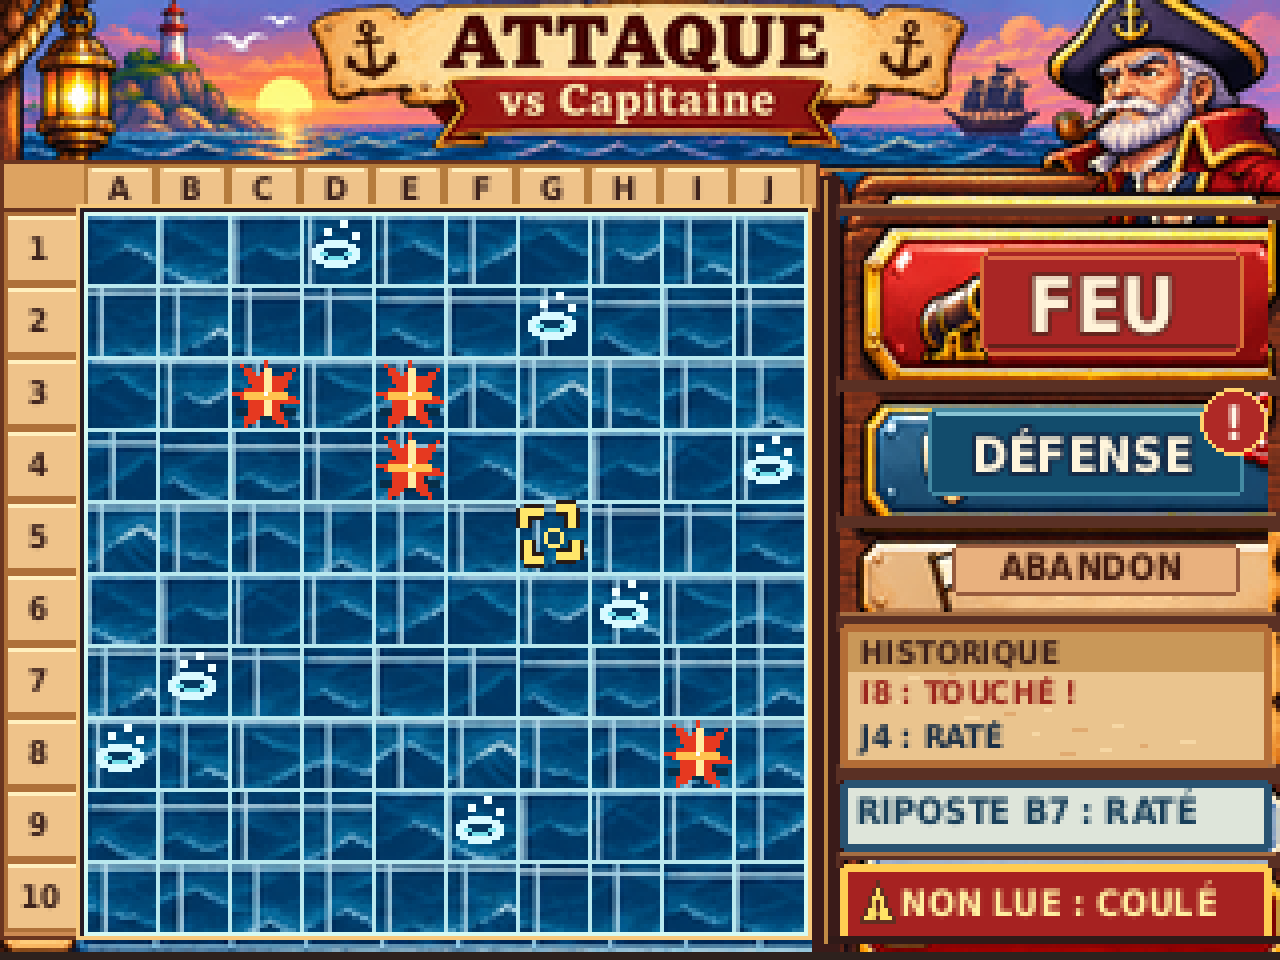
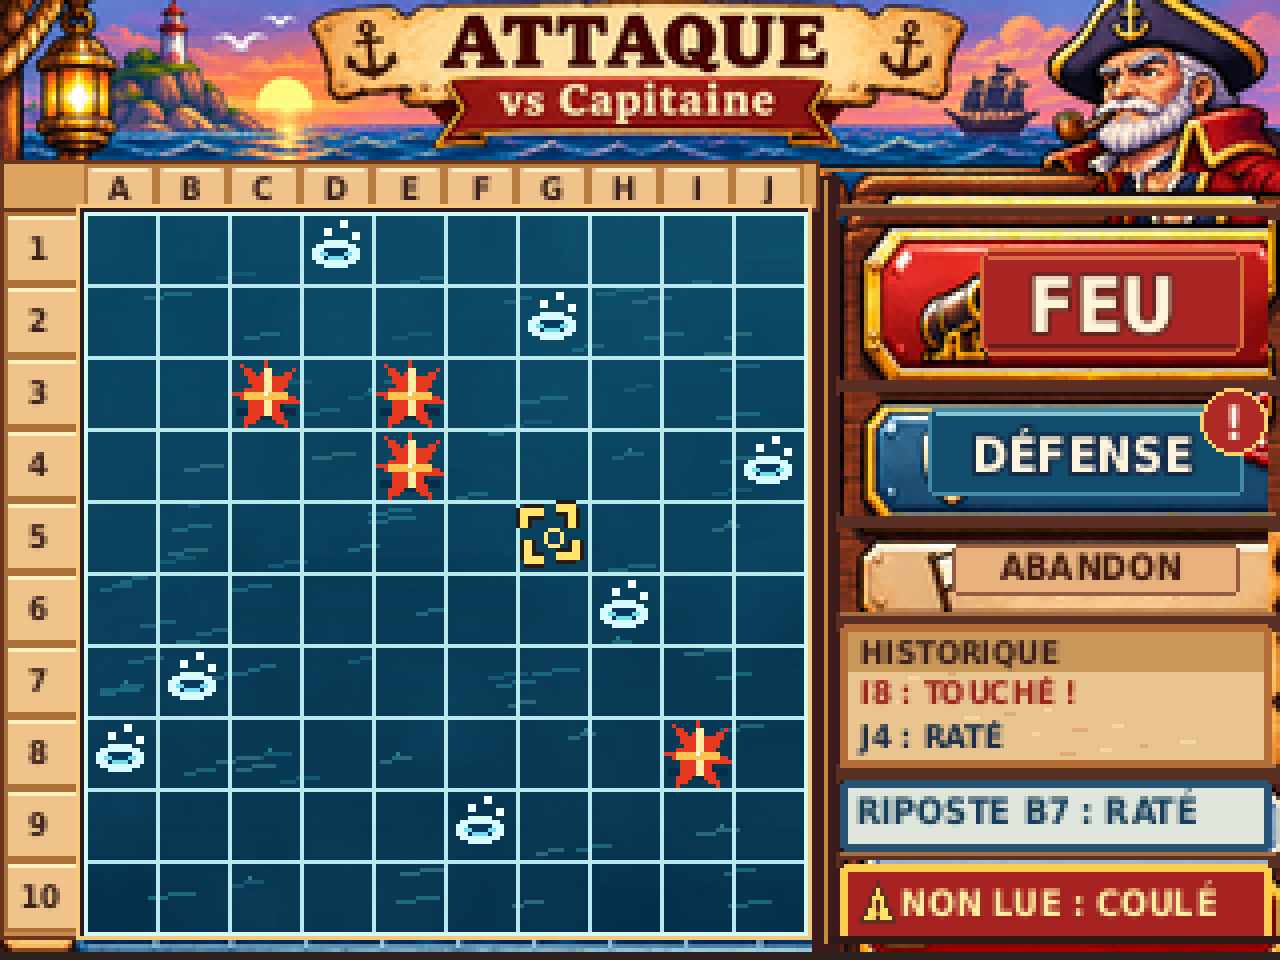
design(g04-r2): continuous ocean, unique grid and native before-after PC proofs (Refs #45)

Changed region(s): [[0.0625, 0.2188, 0.625, 0.9688]]

diff --git a/design/ecrans/attaque/build_g04_r2.py b/design/ecrans/attaque/build_g04_r2.py
@@ -66,30 +66,70 @@ for i in range(10):
 d.rectangle((19,51,202,234),fill='#623623',outline='#F7C97D',width=2)
 d.rectangle((20,52,201,233),fill='#102D42',outline='#271C25',width=1)
 
-# Reuse isolated clean water cells as native sea textures. Unlike a downscale
-# of the whole HD art, the native field contains no embedded phantom markers.
-x0,y0,x1,y1=154,248,830,900
-cw=(x1-x0)/10; ch=(y1-y0)/10
-orig_marked=[('A',8),('B',7),('D',1),('F',9),('G',2),('H',6),('J',4),('C',3),('E',3),('E',4),('I',8),('G',5)]
-marked={(ord(r)-65,c-1) for r,c in orig_marked}
-safe=[(rr,cc) for rr in range(10) for cc in range(10)
-      if all(max(abs(rr-mr),abs(cc-mc))>=2 for mr,mc in marked)]
-# Tiles with cleaner ocean and no baked symbols; 4px inset discards HD grid.
-for yrow in range(10):
-    for xcol in range(10):
-        rr,cc=safe[(xcol*29+yrow*17)%len(safe)]
-        box=(int(x0+cc*cw+5),int(y0+rr*ch+5),
-             int(x0+(cc+1)*cw-5),int(y0+(rr+1)*ch-5))
-        tex=ref.crop(box).resize((CELL,CELL),Image.Resampling.LANCZOS)
-        sea_tint=Image.new('RGB',(CELL,CELL),'#073C5E')
-        tex=Image.blend(tex,sea_tint,.14)
-        im.paste(tex,(GX+xcol*CELL,GY+yrow*CELL))
+# A single continuous, deterministic ocean artwork (G04-R2 grid readability correction).
+# The previous version used 100 independently cropped water tiles, generating
+# bright internal seams and phantom cell boundaries.  This replacement paints
+# a unified 180x180 ocean without tiles or any 18px-periodic operation.
+# The texture is deliberately SUBORDINATE to the 1px authoritative grid and
+# to game markers. Every swell is an isolated low-contrast motif, not a line.
+from random import Random
+RNG=Random(20261103)
+
+def make_continuous_ocean():
+    ocean=Image.new('RGB',(GRID,GRID))
+    px=ocean.load()
+    # Correlated colour variation at non-periodic scales. This is a continuous
+    # value field over the whole playable water, NOT a 10x10 tiled surface.
+    seeds=[(7,9,7),(17,14,5),(39,29,3)]
+    bands=[]
+    for wid,hei,amp in seeds:
+        field=Image.new('L',(wid,hei))
+        vals=field.load()
+        for yy in range(hei):
+            for xx in range(wid):
+                vals[xx,yy]=RNG.randint(85,170)
+        field=field.resize((GRID,GRID),Image.Resampling.BILINEAR)
+        bands.append((field.load(),amp))
+    for y in range(GRID):
+        depth=y/(GRID-1)
+        for x in range(GRID):
+            swell=sum(int((field[x,y]-128)*amp/64) for field,amp in bands)
+            # Teal-lit surface fading into a deeper midnight-blue ocean.
+            px[x,y]=(max(0,min(255,round(12-5*depth+swell*.38))),
+                     max(0,min(255,round(76-24*depth+swell))),
+                     max(0,min(255,round(103-23*depth+swell))))
+    dw=ImageDraw.Draw(ocean)
+    # Only short, broken crests: soft enough to sit BELOW actual grid lines.
+    # No continuous horizontal bars, no hard 18px tile edges or repeated stamps.
+    for idx in range(79):
+        x=RNG.randrange(3,GRID-18)
+        y=RNG.randrange(4,GRID-5)
+        span=RNG.randrange(4,10)
+        tone=RNG.choice(['#1B647B','#1B657A','#1D6980','#286A7C','#145A74'])
+        dw.line([(x,y),(x+span//2,y),(x+span//2+2,y-1),
+                 (x+span+2,y-1)],fill=tone,width=1)
+        # A few sunlit highpoints, NEVER pure white or grid-coloured.
+        if idx%6==0:
+            dw.point((x+span//2+2,y-2),fill='#2B7E8D')
+    # Mild smoothing prevents individual crests from becoming false straight
+    # cell borders; keep the authored 1px game grid as the sharpest signal.
+    return ocean
+
+sea_layer=make_continuous_ocean()
+sea_layer.save(ROOT/'g04_r2_mer_continue_180x180.png',optimize=True)
+im.paste(sea_layer,(GX,GY))
 d=ImageDraw.Draw(im)
+# The one-and-only gameplay grid, authored AFTER the ocean at exact coordinates.
+# Palette is reserved: the water generator NEVER emits these RGB values.
 for i in range(11):
     x=GX+i*CELL; y=GY+i*CELL
     d.line((x,GY,x,GY+GRID),fill='#B9E8EE',width=1)
     d.line((GX,y,GX+GRID,y),fill='#B9E8EE',width=1)
 d.rectangle((21,53,201,233),outline='#D6FAF2',width=1)
+# Proof-only view of the authoritative 11x11 lines on continuous sea before
+# marks are added; 181x181 includes both outer boundaries.
+im.crop((GX,GY,GX+GRID+1,GY+GRID+1)).save(
+    ROOT/'g04_r2_plateau_sans_impacts_181x181.png',optimize=True)
 
 # Mechanic signs: miss = foam ring + bubbles; hit = explosive orange bloom with
 # ink-dark water contact; prepared target = four gold square brackets + cross.
@@ -246,6 +286,24 @@ slabel((171,208),'Résumé et alerte acquittés','#D6F1E7',S8)
 
 states.save(ROOT/'g04_r2_etats_320x240.png',optimize=True)
 states.resize((1280,960),Image.Resampling.NEAREST).save(ROOT/'g04_r2_etats_x4.png',optimize=True)
+
+# True 1:1 PC acceptance comparison. Each 320x240 screenshot is pasted
+# WITHOUT resampling. The previous rejected image is an immutable input.
+old_path=ROOT/'g04_r2_avant_quadrillage_320x240.png'
+old=Image.open(old_path).convert('RGB')
+assert old.size==(320,240),'ancienne image native indisponible'
+compare=Image.new('RGB',(640,260),'#29202D')
+cd=ImageDraw.Draw(compare)
+cd.rectangle((0,0,319,19),fill='#713C3C')
+cd.rectangle((320,0,639,19),fill='#205F65')
+headfont=ImageFont.truetype(str(FONT_PATH),10)
+cd.text((9,5),'AVANT : 100 TEXTURES DISJOINTES',font=headfont,fill='#FFF5E3')
+cd.text((329,5),'APRÈS : 1 MER CONTINUE + GRILLE',font=headfont,fill='#FFF5E3')
+compare.paste(old,(0,20))
+compare.paste(im,(320,20))
+compare.save(ROOT/'g04_r2_comparaison_avant_apres_640x260.png',optimize=True)
+compare.resize((2560,1040),Image.Resampling.NEAREST).save(
+    ROOT/'g04_r2_comparaison_x4.png',optimize=True)
 report={
  'status':'DESIGN_PREVIEW — ON_DEVICE_UNVERIFIED',
  'concept_provenance':'source HD AI-generated painterly concept; photo-pixel cutouts, no firmware approval',
@@ -256,9 +314,12 @@ report={
  'axis':'columns A-J; rows 1-10',
  'target':TARGET,'misses':MISSES,'hits':HITS,'enemy_ships_visible':False,
  'last_reply':'B7 RATÉ','unread_severity':'COULÉ',
+ 'sea_render':'continuous 180x180 deterministic ocean; zero 18px tile seams',
+ 'grid_render':'one authoritative set of 11+11 integer-aligned 1px lines',
+ 'comparative':'two complete 320x240 native images pasted pixel-for-pixel at x=0 and x=320',
  'files':{}
 }
-for name in ['reference_concept_1448x1086.png','build_g04_r2.py','g04_r2_attaque_320x240.png','g04_r2_attaque_x4.png','g04_r2_etats_320x240.png','g04_r2_etats_x4.png']:
+for name in ['reference_concept_1448x1086.png','build_g04_r2.py','g04_r2_attaque_320x240.png','g04_r2_attaque_x4.png','g04_r2_etats_320x240.png','g04_r2_etats_x4.png','g04_r2_avant_quadrillage_320x240.png','g04_r2_comparaison_avant_apres_640x260.png','g04_r2_comparaison_x4.png','g04_r2_mer_continue_180x180.png','g04_r2_plateau_sans_impacts_181x181.png']:
  p=ROOT/name
  report['files'][name]={'sha256':hashlib.sha256(p.read_bytes()).hexdigest(),'bytes':p.stat().st_size}
 (ROOT/'generation-report.json').write_text(json.dumps(report,indent=2,ensure_ascii=False)+'\n',encoding='utf-8')

diff --git a/design/ecrans/attaque/verify_g04_r2.py b/design/ecrans/attaque/verify_g04_r2.py
@@ -9,6 +9,85 @@ zoom=Image.open(ROOT/'g04_r2_attaque_x4.png').convert('RGB')
 state_native=Image.open(ROOT/'g04_r2_etats_320x240.png').convert('RGB')
 state_zoom=Image.open(ROOT/'g04_r2_etats_x4.png').convert('RGB')
 report=json.loads((ROOT/'generation-report.json').read_text())
+old=Image.open(ROOT/'g04_r2_avant_quadrillage_320x240.png').convert('RGB')
+comparative=Image.open(ROOT/'g04_r2_comparaison_avant_apres_640x260.png').convert('RGB')
+comparative_zoom=Image.open(ROOT/'g04_r2_comparaison_x4.png').convert('RGB')
+sea=Image.open(ROOT/'g04_r2_mer_continue_180x180.png').convert('RGB')
+board_clean=Image.open(ROOT/'g04_r2_plateau_sans_impacts_181x181.png').convert('RGB')
+assert old.size==(320,240) and comparative.size==(640,260)
+assert comparative_zoom.size==(2560,1040)
+assert sea.size==(180,180) and board_clean.size==(181,181)
+# Rejected reference is immutable: prevents re-labelling an after image as BEFORE.
[1 lines of base64/hex data omitted]
+# This is an ACTUAL visual before/after: two intact 320x240 screenshots at 1:1.
+assert comparative.crop((0,20,320,260)).tobytes()==old.tobytes()
+assert comparative.crop((320,20,640,260)).tobytes()==native.tobytes()
+assert comparative.resize((2560,1040),Image.Resampling.NEAREST).tobytes()==comparative_zoom.tobytes()
+# Targeted retouch proof: no pixel outside the 181x181 grid including the
+# outer authoritative boundary has changed from the previously reviewed art.
+inside_changes=outside_changes=0
+for yy in range(240):
+    for xx in range(320):
+        if native.getpixel((xx,yy)) != old.getpixel((xx,yy)):
+            if 21<=xx<=201 and 53<=yy<=233:
+                inside_changes+=1
+            else:
+                outside_changes+=1
+assert inside_changes>=18000,(inside_changes,'ocean not actually corrected')
+assert outside_changes==0,(outside_changes,'unapproved change outside grid')
+
+# Diagnostic image shows the full grid with NO markers. We assert not merely
+# the presence of all 22 intended lines but their exclusive colour: none of
+# the remaining 100 interiors can be mistaken for a second white grid line.
+GRID_RGB=(185,232,238)
+FRAME_RGB=(214,250,242)
+count_grid_pixels=0
+for yy in range(181):
+    for xx in range(181):
+        pxy=board_clean.getpixel((xx,yy))
+        intended=(xx%18==0 or yy%18==0)
+        if intended:
+            expect=FRAME_RGB if (xx in (0,180) or yy in (0,180)) else GRID_RGB
+            assert pxy==expect,('authoritative grid pixel missing',xx,yy,pxy,expect)
+            count_grid_pixels+=1
+        else:
+            assert pxy not in (GRID_RGB,FRAME_RGB),('ghost grid-coloured pixel',xx,yy)
+assert count_grid_pixels==11*181*2-11*11
+
+# A separate ocean-only pixel check makes false separations measurable even
+# when they use colours OTHER than the real grid.  Its maximum luminance stays
+# well BELOW the grid; at every former 18px tile boundary, the mean first
+# derivative must be modest (no discontinuous 100-tile copy/paste seam).
+def lum(rgb):
+    r,g,b=rgb
+    return r*0.2126+g*0.7152+b*0.0722
+
+def check_ocean_only(img):
+    max_lum=0
+    for yy in range(180):
+        for xx in range(180):
+            max_lum=max(max_lum,lum(img.getpixel((xx,yy))))
+    assert max_lum<125,('water visually competes with white cell boundaries',max_lum)
+    seams=[]
+    for offset in range(18,180,18):
+        vert=sum(abs(lum(img.getpixel((offset,yy)))-lum(img.getpixel((offset-1,yy)))) for yy in range(180))/180
+        hori=sum(abs(lum(img.getpixel((xx,offset)))-lum(img.getpixel((xx,offset-1)))) for xx in range(180))/180
+        assert vert<8,('vertical false seam',offset,vert)
+        assert hori<8,('horizontal false seam',offset,hori)
+        seams.append((vert,hori))
+    return max_lum,max(max(v,h) for v,h in seams)
+ocean_max_luma,ocean_max_seam=check_ocean_only(sea)
+# Negative proof: a 1px-high synthetic false seam on water is detected even
+# though the 11 actual gameplay-grid lines are unchanged.
+phantom=sea.copy()
+from PIL import ImageDraw
+ImageDraw.Draw(phantom).line((0,90,179,90),fill=(145,182,190),width=1)
+try:
+    check_ocean_only(phantom)
+except AssertionError:
+    pass
+else:
+    raise AssertionError('water-only false-separation negative test accepted')
 assert native.size==(320,240),native.size
 assert zoom.size==(1280,960),zoom.size
 assert state_native.size==(320,240) and state_zoom.size==(1280,960)
@@ -95,6 +174,11 @@ for name,info in report['files'].items():
     assert hashlib.sha256(p.read_bytes()).hexdigest()==info['sha256'],name
     assert p.stat().st_size==info['bytes']
 print('G04-R2 PC PASS — native 320x240 / x4 1280x960 exact NEAREST')
+print(f'BEFORE/AFTER each full 320x240, one-to-one: inside grid changed={inside_changes}, outside changed={outside_changes}')
+print(f'clean 181x181 grid: {count_grid_pixels} correct RGB line pixels; NO extra grid-coloured pixels')
+print(f'continuous ocean: max luma={ocean_max_luma:.1f} (threshold 125), max 18px-boundary seam={ocean_max_seam:.2f} (threshold 8)')
+print('negative phantom water seam (synthetic horizontal 1px): rejected')
+print('native 640x260 side-by-side + x4 comparison: pixel-identical source halves and exact NEAREST')
 print('grid PNG: 121 crossings + 220 line segments checked at x=21..201/y=53..233, 100 cells of 18px')
 print('negative grid-line corruption: rejected')
 print('4 state vignettes: native + strict x4 NEAREST PASS')

diff --git a/design/ecrans/attaque/README.md b/design/ecrans/attaque/README.md
@@ -1,6 +1,6 @@
 # G04-R2 — ATTAQUE VS Capitaine — contre-revue corrective
 
-> **`DESIGN_PREVIEW — ON_DEVICE_UNVERIFIED` · `CORRECTIONS_REQUISES` de Pilotage traitées sur PC · accord artistique PO non reçu.**  
+> **`DESIGN_PREVIEW — ON_DEVICE_UNVERIFIED` · `CORRECTIONS_REQUISES — REFUS_ARTISTIQUE_PO_G04-R2` · nouveau correctif soumis pour contre-revue · accord artistique PO non reçu.**  
 > Issue [#45](https://github.com/Kharn27/ESP32-OTA-Battleship/issues/45) · PR Draft [#64](https://github.com/Kharn27/ESP32-OTA-Battleship/pull/64) · Branche `design/g04-r2-attaque`. **Seul Pilotage fusionne.**
 
 ## Proposition principale 320 × 240 native
@@ -12,6 +12,30 @@
 ![Écran ATTAQUE agrandi sans interpolation](g04_r2_attaque_x4.png)
 
 </details>
+
+## Nouveau correctif : lisibilité des 100 cases (prescription Pilotage du 03/11/2026)
+
+> Source du refus : [commentaire Pilotage #6609534686](https://github.com/Kharn27/ESP32-OTA-Battleship/pull/64#issuecomment-6609534686), suivant l'arbitrage artistique du PO. Les contrôles anciens prouvaient les coordonnées, **pas la lecture immédiate de 100 cases**.
+
+**Comparatif direct avant/après à résolution native (deux captures de 320×240 pixels non redimensionnées, juxtaposition 640×260 avec bandeaux de 20 px) :**
+
+![Avant : cent carreaux de mer distincts / Après : mer continue, quadrillage unique — deux images 320×240 natives](g04_r2_comparaison_avant_apres_640x260.png)
+
+<details><summary>Zoom de contrôle ×4 NEAREST strict — 2560×1040</summary>
+
+![Comparaison ×4 sans interpolation](g04_r2_comparaison_x4.png)
+
+</details>
+
+**Le seul changement pictural se situe dans le plateau 180×180 :** 27 577 pixels différents à l'intérieur des coordonnées `(21,53)…(201,233)` ; **zéro pixel modifié en dehors du plateau** par rapport au PNG de la livraison refusée. Le bandeau du capitaine, la perspective, le bois, les boutons, les textes, les impacts et le réticule **G5** sont conservés. L'ancienne image est conservée dans `g04_r2_avant_quadrillage_320x240.png` comme preuve exacte, pas comme référence active.
+
+**Rendu proposé :** la précédente mosaïque de **100 crops indépendants de 18×18** est supprimée. `build_g04_r2.py` génère une **surface unique de 180×180**, à teinte et variations d'éclairage continues. Des rides courtes, irrégulières et peu contrastées évoquent l'océan, sans bordures artificielles aux multiples de 18 px. Au-dessus, **une seule grille autoritaire** de 11 verticales + 11 horizontales, épaisseur 1 px, coordonnées entières exactes. Les effets de coups sont dessinés ensuite **au-dessus** du quadrillage, à leurs positions initiales. La couche décorative reste subordonnée à la lisibilité.
+
+**Diagnostic sans coups (pas une deuxième interface jouable) :** [mer continue nue 180×180](g04_r2_mer_continue_180x180.png) et [plateau 181×181 avec toutes les bordures, sans impacts](g04_r2_plateau_sans_impacts_181x181.png). La dimension de ce dernier est **181** pour inclure le pixel de bord x/y=180, tandis que la **surface des 100 cases reste 180×180**.
+
+**Preuve PC en plus des anciens tests :** `verify_g04_r2.py` vérifie les **3 861 pixels de lignes uniques** dans le diagnostic sans impacts, l'absence de couleur de ligne ailleurs, le contraste de la mer, les ruptures moyennes aux anciens raccords de 18 px, la constance des 100 cases, la correspondance bit à bit des deux moitiés de la comparaison native, le zoom ×4, et l'absence de changement hors plateau. Contrôles négatifs : injection d'une **fausse ligne d'eau** détectée, suppression d'un pixel de grille détectée et altération d'un canal du PNG ×4 détectée. Mesures recueillies : luminance maximale de la mer **109,4** (<125) ; contraste/raccord moyen maximal **4,84** (<8) ; 0 modification hors plateau. Les tests sont des **garde-fous**, et **non une acceptation artistique automatique** : seule l'observation à 320×240 par le PO tranche le point « 100 cases immédiatement reconnaissables ».
+
+**Status :** `DESIGN_PREVIEW — ON_DEVICE_UNVERIFIED`, **non validé PO**. Aucune modification à G05/G07/G08, Bible, firmware ou charte générale. La dette CYD reste reportée à l'intégration matérielle.
 
 ## Annexe visuelle ciblée — quatre états demandés (§2.5, Issue #45)
 
